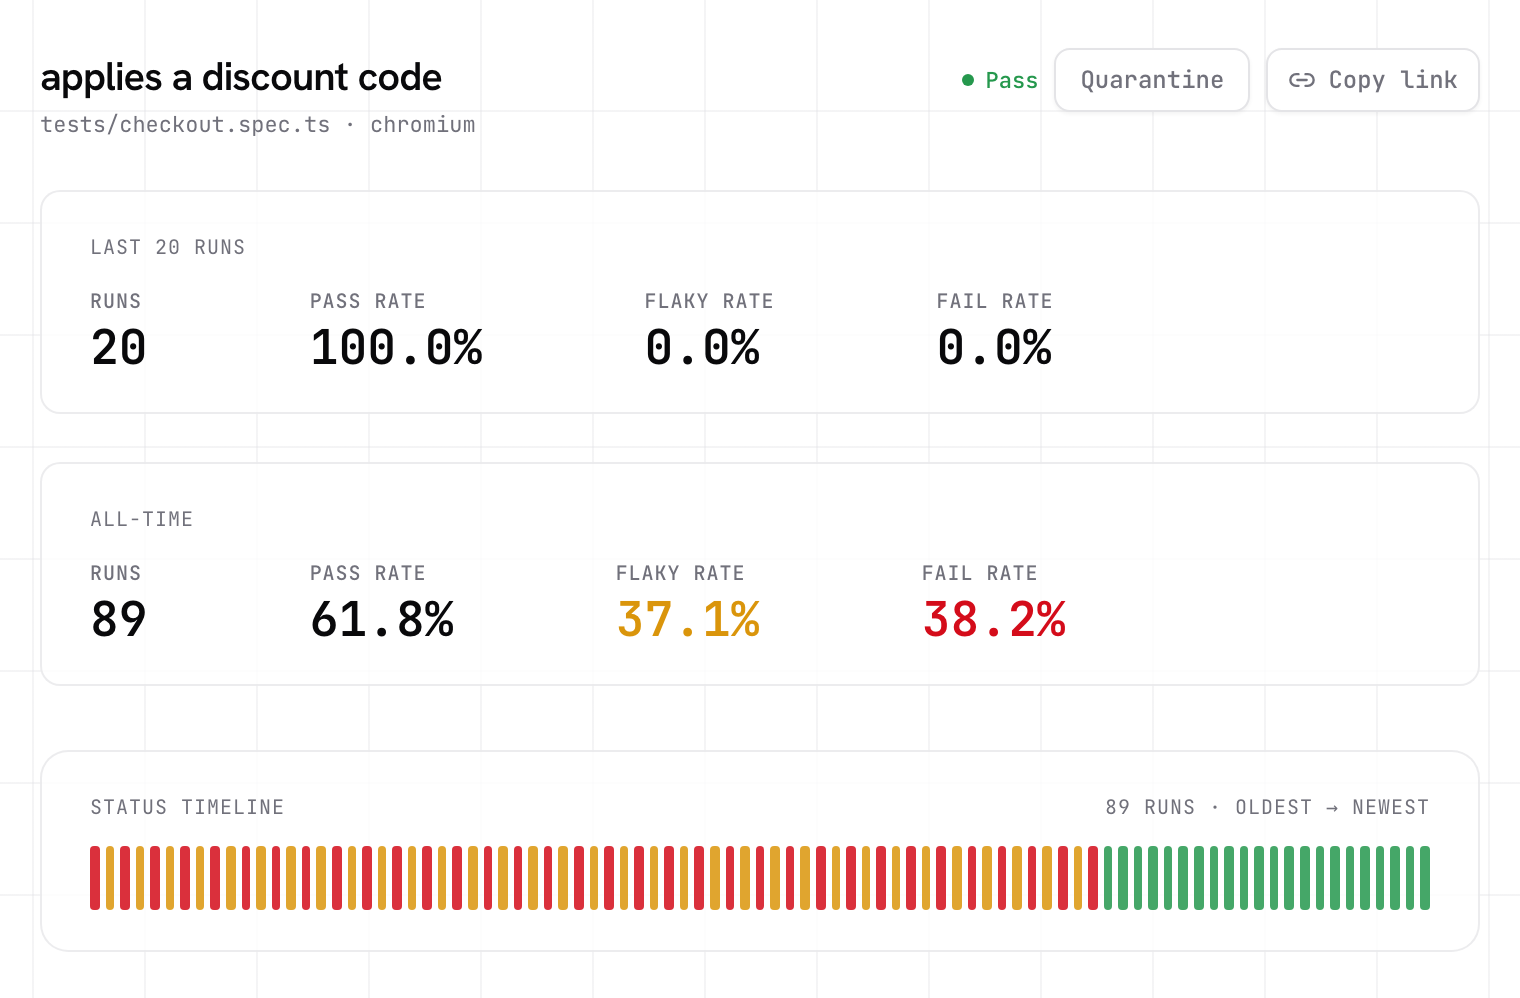
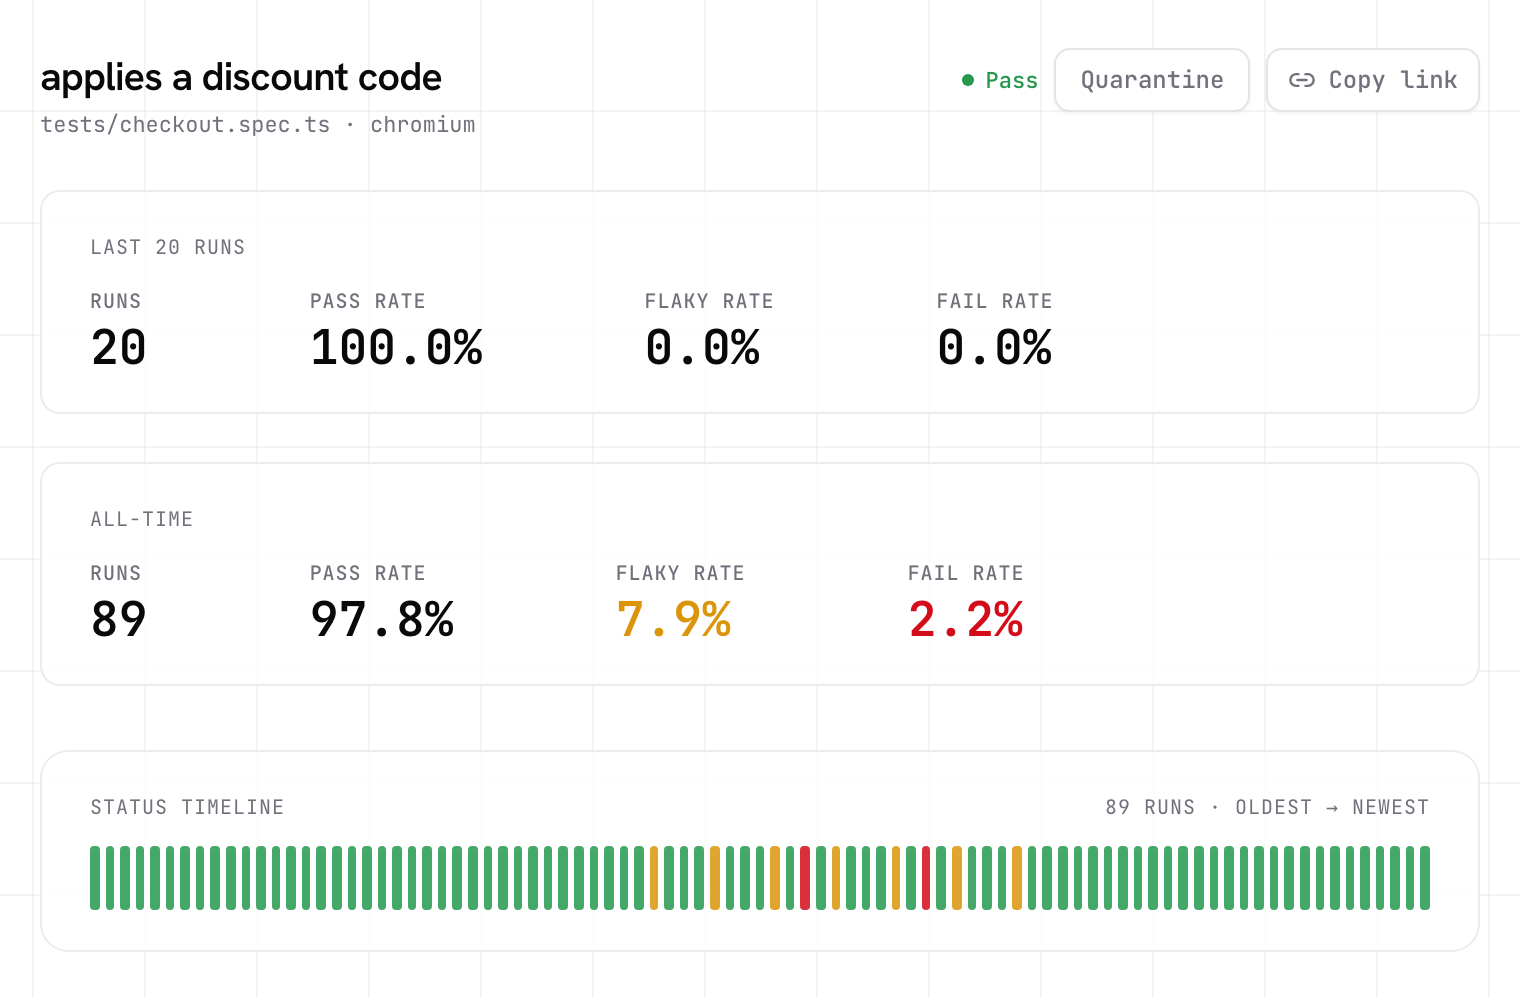
fix(server): give the landing history test a realistic flaky stretch instead of weeks of failures

diff --git a/packages/server/scripts/seed-market.ts b/packages/server/scripts/seed-market.ts
@@ -44,7 +44,7 @@ type Status = NormTest['status']
 type Profile
   = | 'solid' | 'mostlyGreen' | 'flakyHistory' | 'chronicFlaky' | 'flakyCluster'
     | 'degrading' | 'outage' | 'recovering' | 'intermittent' | 'chronicFail'
-    | 'newlyFlaky' | 'newlyBroken' | 'newlyFailing' | 'fixed' | 'fixmeSkip' | 'recurringFail' | 'longBroken'
+    | 'newlyFlaky' | 'newlyBroken' | 'newlyFailing' | 'fixed' | 'fixmeSkip' | 'recurringFail' | 'longBroken' | 'flakedThenFixed'
 
 // Status sequence per profile across the story run ordinals (0 = oldest story run, LATEST = newest).
 // Events are spread across the timeline (not just the tail) so per-run pass rates
@@ -75,6 +75,8 @@ function statusAt(profile: Profile, i: number): Status {
       return i % 7 === 5 ? 'unexpected' : i % 7 === 2 ? 'flaky' : 'expected'
     case 'newlyFlaky':
       return i === LATEST ? 'flaky' : 'expected'
+    case 'flakedThenFixed':
+      return flakedThenFixedAt(i)
     case 'longBroken': // failing since a commit 8 runs back: Broken, past the "New failure" window
       return i >= LATEST - 7 ? 'unexpected' : 'expected'
     case 'newlyBroken':
@@ -94,8 +96,21 @@ function statusAt(profile: Profile, i: number): Status {
 // Status of the older history runs (i < 0). The newly-* signals compare the recent window with
 // everything before it, so those tests stay clean here; `recovering` is rough the whole time
 // before its scripted recovery (an upward 90-day trend); the noisy profiles replay their pattern.
+// Green for weeks, then a stretch of occasional flakes and two failures, fixed about 28 runs ago
+// and green since: the life of one test the per-test history card tells.
+function flakedThenFixedAt(i: number): Status {
+  const k = i + HISTORY
+  if (k < 35 || k >= 62)
+    return 'expected'
+  if (k === 47 || k === 55)
+    return 'unexpected'
+  return k % 4 === 1 ? 'flaky' : 'expected'
+}
+
 function historyAt(profile: Profile, i: number): Status {
   switch (profile) {
+    case 'flakedThenFixed':
+      return flakedThenFixedAt(i)
     case 'recovering':
       return i % 2 === 0 ? 'unexpected' : 'flaky'
     case 'recurringFail': // never flaky
@@ -216,7 +231,7 @@ const PROJECTS: ProjectDef[] = [
         rule('label', 'critical', LABEL, ['input[name="card-number"]', 'input[name="cvc"]']),
         rule('color-contrast', 'serious', CONTRAST, ['.total .muted', '.terms'], 3),
       ] },
-      { file: 'tests/checkout.spec.ts', title: 'applies a discount code', profile: 'recovering' },
+      { file: 'tests/checkout.spec.ts', title: 'applies a discount code', profile: 'flakedThenFixed' },
       { file: 'tests/search.spec.ts', title: 'returns relevant results', profile: 'newlyFlaky', tags: ['@critical'], a11y: [
         rule('image-alt', 'critical', 'Images must have alternative text', ['.result img'], 8),
         rule('region', 'moderate', 'All page content should be contained by landmarks', ['#results']),
